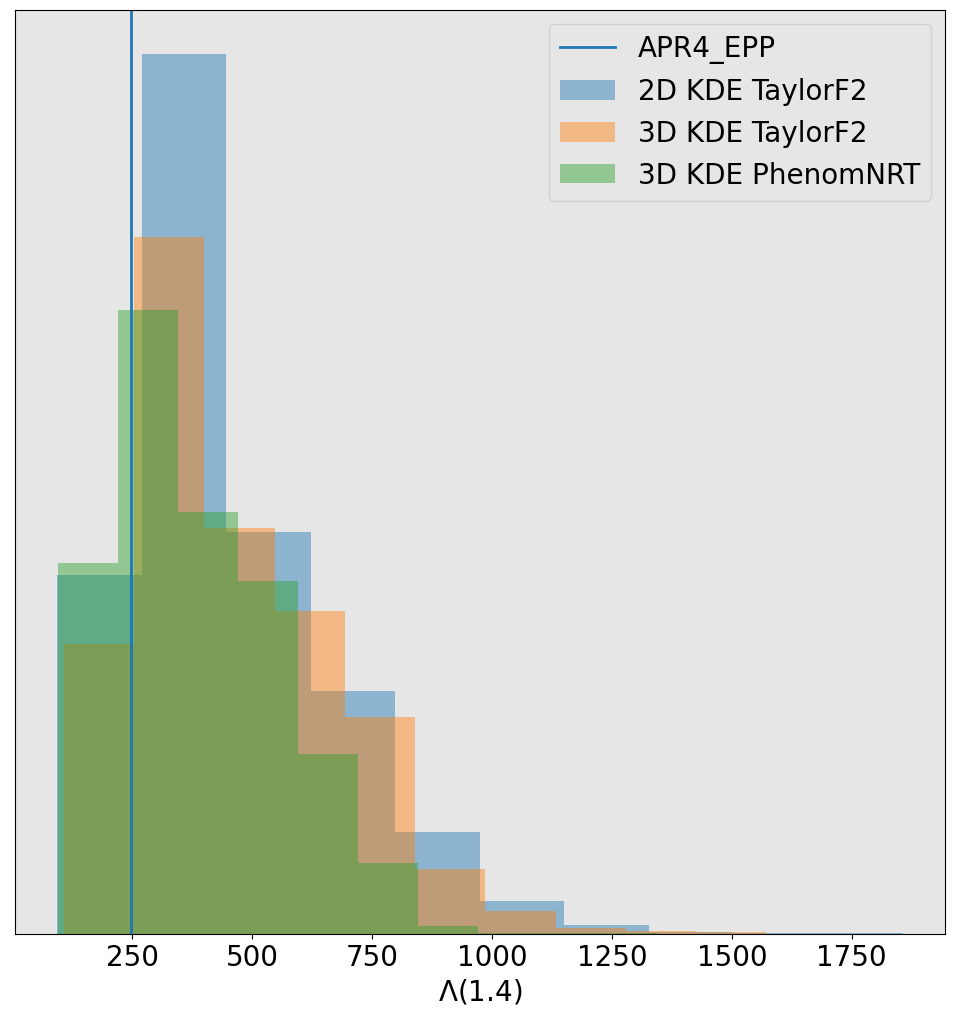
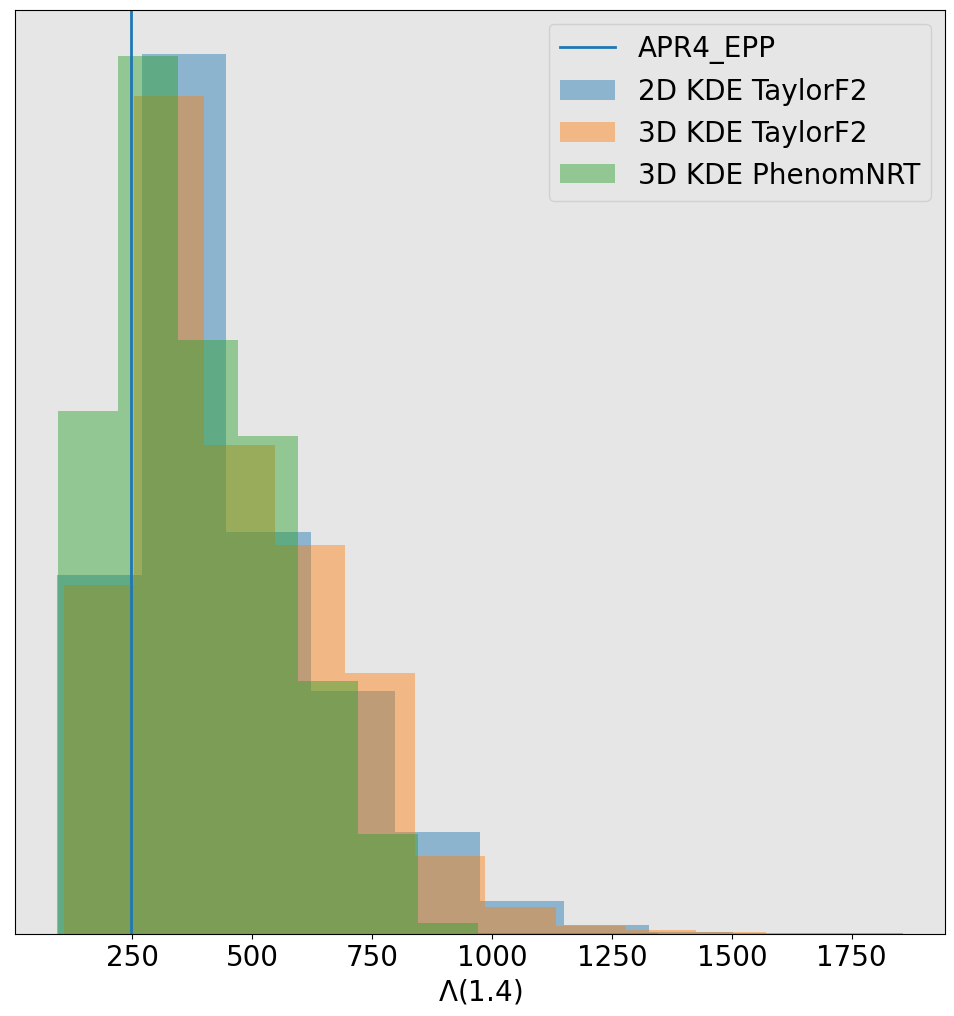
Last touches to BNS plots for now.

diff --git a/year3/lastStretch/lambdaHist.py b/year3/lastStretch/lambdaHist.py
@@ -10,8 +10,8 @@ def calcLambda_parametrized():
 
     for ii in range(len(labels)):
 
-        filename='data/constraints/{}_16simulationsInference_gammas.txt'.format(labels[ii])
-        #filename='data/constraints/{}_GW170817inference_gammas.txt'.format(labels[ii])
+        #filename='data/constraints/{}_16simulationsInference_gammas.txt'.format(labels[ii])
+        filename='data/constraints/{}_GW170817inference_gammas.txt'.format(labels[ii])
         samples = np.loadtxt(filename)
         Lambdas = []
         m=1.4
@@ -27,8 +27,8 @@ def calcLambda_parametrized():
             Lambda = (2/3)*kk/(cc**5)
             Lambdas.append(Lambda)
 
-        np.savetxt("data/lambdaHists/{}_16simulationsInference_Lambdas.txt".format(labels[ii]),np.array(Lambdas).T)
-        #np.savetxt("data/lambdaHists/{}_GW170817inference_Lambdas.txt".format(labels[ii]),np.array(Lambdas).T)
+        #np.savetxt("data/lambdaHists/{}_16simulationsInference_Lambdas.txt".format(labels[ii]),np.array(Lambdas).T)
+        np.savetxt("data/lambdaHists/{}_GW170817inference_Lambdas.txt".format(labels[ii]),np.array(Lambdas).T)
 
 
 def plotLambda_parametrized(eosname="APR4_EPP"):
@@ -51,8 +51,8 @@ def plotLambda_parametrized(eosname="APR4_EPP"):
     Labels = ["2D KDE TaylorF2", "3D KDE TaylorF2", "3D KDE PhenomNRT"]
     for ii in range(len(Labels)):
 
-        filename='data/lambdaHists/{}_16simulationsInference_Lambdas.txt'.format(labels[ii])
-        #filename='data/lambdaHists/{}_GW170817inference_Lambdas.txt'.format(labels[ii])
+        #filename='data/lambdaHists/{}_16simulationsInference_Lambdas.txt'.format(labels[ii])
+        filename='data/lambdaHists/{}_GW170817inference_Lambdas.txt'.format(labels[ii])
         Lambdas = np.loadtxt(filename).T
 
         plt.hist(Lambdas, label=Labels[ii], alpha=0.45, fill=True, density=True)
@@ -62,5 +62,5 @@ def plotLambda_parametrized(eosname="APR4_EPP"):
     plt.xlabel("$\Lambda$(1.4)",fontsize=20)
     plt.yticks([])
     plt.legend()
-    plt.savefig("plots/lambdaHists/16simulations_Lambdas.png", bbox_inches='tight')
-    #plt.savefig("plots/lambdaHists/GW170817_Lambdas.png", bbox_inches='tight')
+    #plt.savefig("plots/lambdaHists/16simulations_Lambdas.png", bbox_inches='tight')
+    plt.savefig("plots/lambdaHists/GW170817_Lambdas.png", bbox_inches='tight')

diff --git a/year3/lastStretch/simulConstraint.py b/year3/lastStretch/simulConstraint.py
@@ -135,7 +135,7 @@ def plotConstraint():
     EoSs = ["APR4_EPP"]
     for EoS in EoSs:
         logp=eos_p_of_rho(rho,lalsimulation.SimNeutronStarEOSByName(EoS))
-        plt.plot(np.log10(rho),logp, linewidth=2.0, label=EoS, alpha=0.35)
+        plt.plot(np.log10(rho),logp, linewidth=2.0, label=EoS, alpha=0.35, color="black")
 
     plt.xlim([min(np.log10(rho)), 18.25])
     plt.xlabel(r'$\log10{\frac{\rho}{g cm^-3}}$',fontsize=20)
